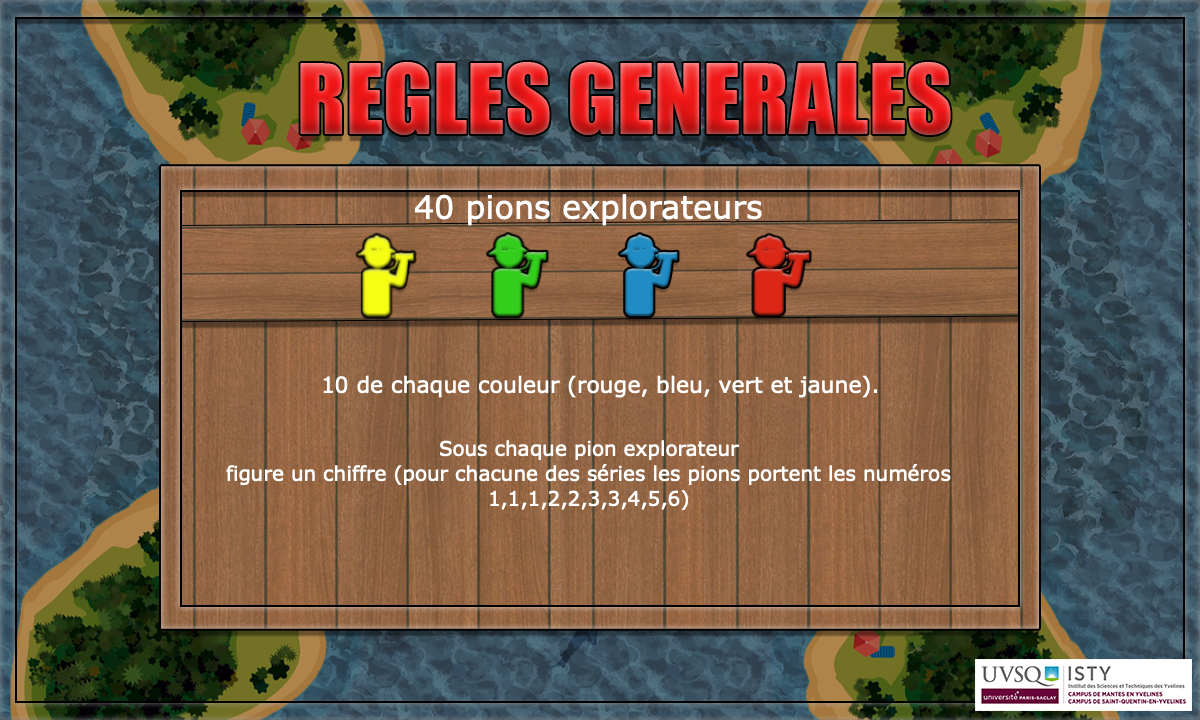
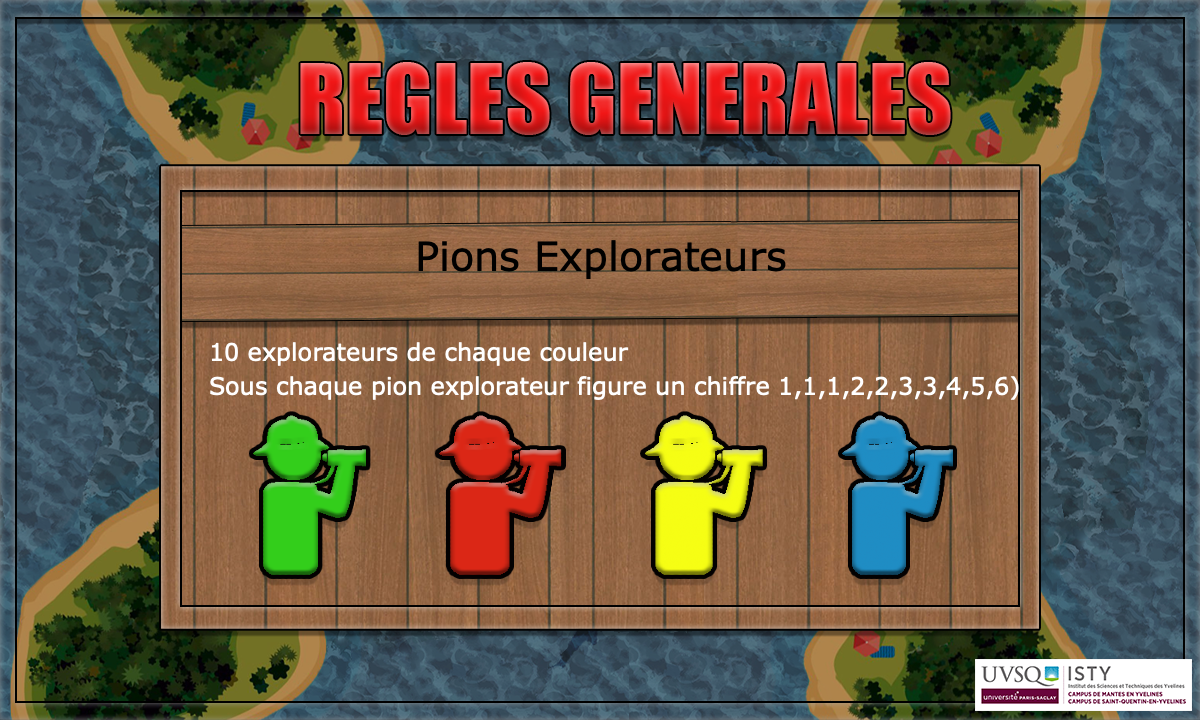
ajout règles generales et pieces

Changed region(s): [[0.1542, 0.275, 0.8633, 0.825]]

diff --git a/src/Vue/Menu/Imageslider.java b/src/Vue/Menu/Imageslider.java
@@ -17,7 +17,7 @@ class Imageslider extends JFrame  implements ActionListener
     JPanel p;
     public Imageslider(int regle) throws IOException {
         setLayout(new BorderLayout( ));
-        setSize(1200, 720);
+        setSize(1200, 734);
         setDefaultCloseOperation(JFrame.EXIT_ON_CLOSE);
         setVisible(true);
         //setBackground(Color.lightGray);
@@ -92,31 +92,37 @@ class Imageslider extends JFrame  implements ActionListener
             BufferedImage bufferedImage = ImageIO.read(new File("Images/Menu_Regles_Generales(1).png"));
             Image image0 = bufferedImage.getScaledInstance(1200, 720, Image.SCALE_DEFAULT);
 
+            BufferedImage bufferedImage10 = ImageIO.read(new File("Images/Menu_Regles_Generales2.png"));
+            Image image1 = bufferedImage10.getScaledInstance(1200, 720, Image.SCALE_DEFAULT);
+
             BufferedImage bufferedImage1 = ImageIO.read(new File("Images/Menu_Regles_TuilesV.png"));
-            Image image1 = bufferedImage1.getScaledInstance(1200, 720, Image.SCALE_DEFAULT);
+            Image image2 = bufferedImage1.getScaledInstance(1200, 720, Image.SCALE_DEFAULT);
 
             BufferedImage bufferedImage2 = ImageIO.read(new File("Images/Menu_Regles_TuilesR.png"));
-            Image image2 = bufferedImage2.getScaledInstance(1200, 720, Image.SCALE_DEFAULT);
+            Image image3 = bufferedImage2.getScaledInstance(1200, 720, Image.SCALE_DEFAULT);
 
             BufferedImage bufferedImage3 = ImageIO.read(new File("Images/Menu_Regles_TuilesVR.png"));
-            Image image3 = bufferedImage3.getScaledInstance(1200, 720, Image.SCALE_DEFAULT);
+            Image image4 = bufferedImage3.getScaledInstance(1200, 720, Image.SCALE_DEFAULT);
 
             BufferedImage bufferedImage4 = ImageIO.read(new File("Images/Volcan.png"));
-            Image image4 = bufferedImage4.getScaledInstance(1200, 720, Image.SCALE_DEFAULT);
+            Image image5 = bufferedImage4.getScaledInstance(1200, 720, Image.SCALE_DEFAULT);
 
             BufferedImage bufferedImage5 = ImageIO.read(new File("Images/deCreature.png"));
-            Image image5 = bufferedImage5.getScaledInstance(1200, 720, Image.SCALE_DEFAULT);
+            Image image6 = bufferedImage5.getScaledInstance(1200, 720, Image.SCALE_DEFAULT);
 
             BufferedImage bufferedImage6 = ImageIO.read(new File("Images/Dbaleine.png"));
-            Image image6 = bufferedImage6.getScaledInstance(1200, 720, Image.SCALE_DEFAULT);
+            Image image7 = bufferedImage6.getScaledInstance(1200, 720, Image.SCALE_DEFAULT);
 
             BufferedImage bufferedImage7 = ImageIO.read(new File("Images/Drequin.png"));
-            Image image7 = bufferedImage7.getScaledInstance(1200, 720, Image.SCALE_DEFAULT);
+            Image image8 = bufferedImage7.getScaledInstance(1200, 720, Image.SCALE_DEFAULT);
 
             BufferedImage bufferedImage8 = ImageIO.read(new File("Images/Deserpant.png"));
-            Image image8 = bufferedImage8.getScaledInstance(1200, 720, Image.SCALE_DEFAULT);
+            Image image9 = bufferedImage8.getScaledInstance(1200, 720, Image.SCALE_DEFAULT);
 
-            s = new ImageIcon[9];
+            BufferedImage bufferedImage9 = ImageIO.read(new File("Images/Menu_Regles_Creature.png"));
+            Image image10 = bufferedImage9.getScaledInstance(1200, 720, Image.SCALE_DEFAULT);
+
+            s = new ImageIcon[11];
             s[0] = new ImageIcon(image0);
             s[1] = new ImageIcon(image1);
             s[2] = new ImageIcon(image2);
@@ -126,6 +132,8 @@ class Imageslider extends JFrame  implements ActionListener
             s[6] = new ImageIcon(image6);
             s[7] = new ImageIcon(image7);
             s[8] = new ImageIcon(image8);
+            s[9] = new ImageIcon(image9);
+            s[10] = new ImageIcon(image10);
             l.setIcon(s[0]);
         }
     }
